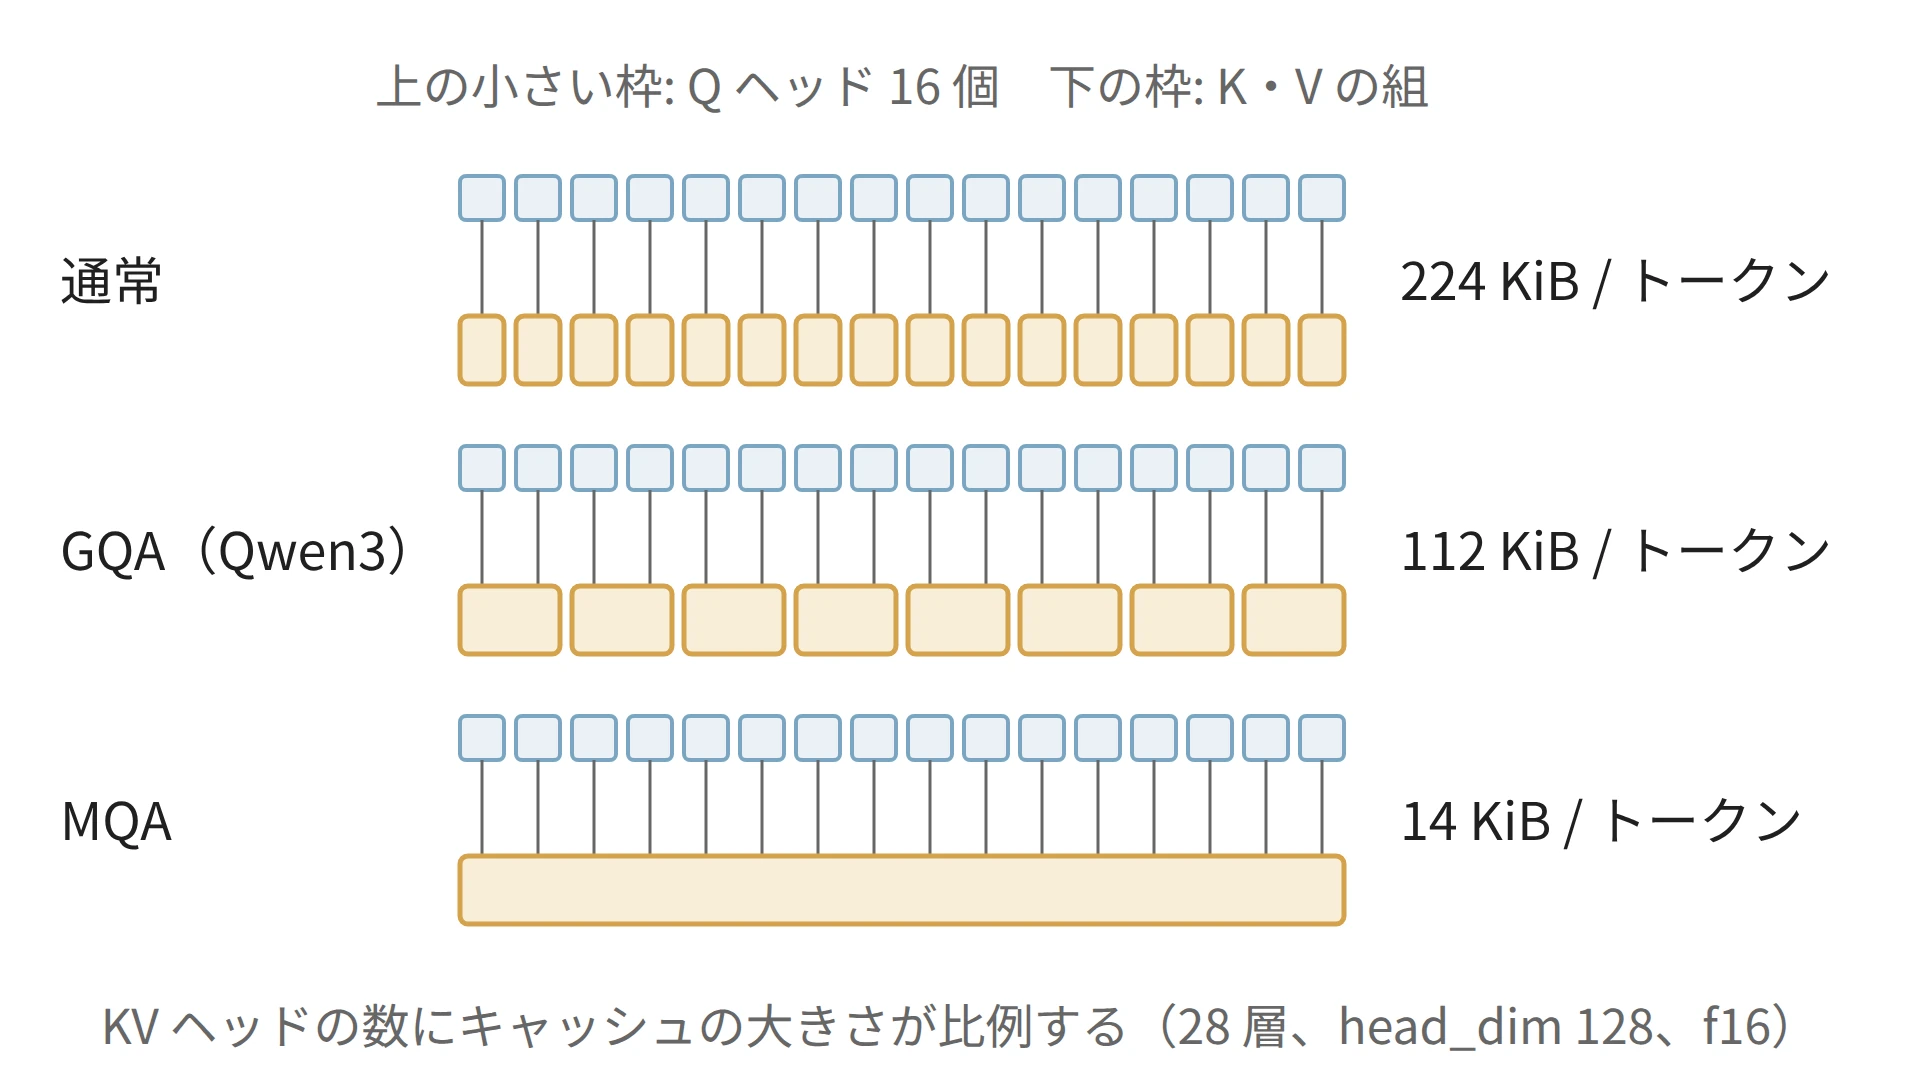
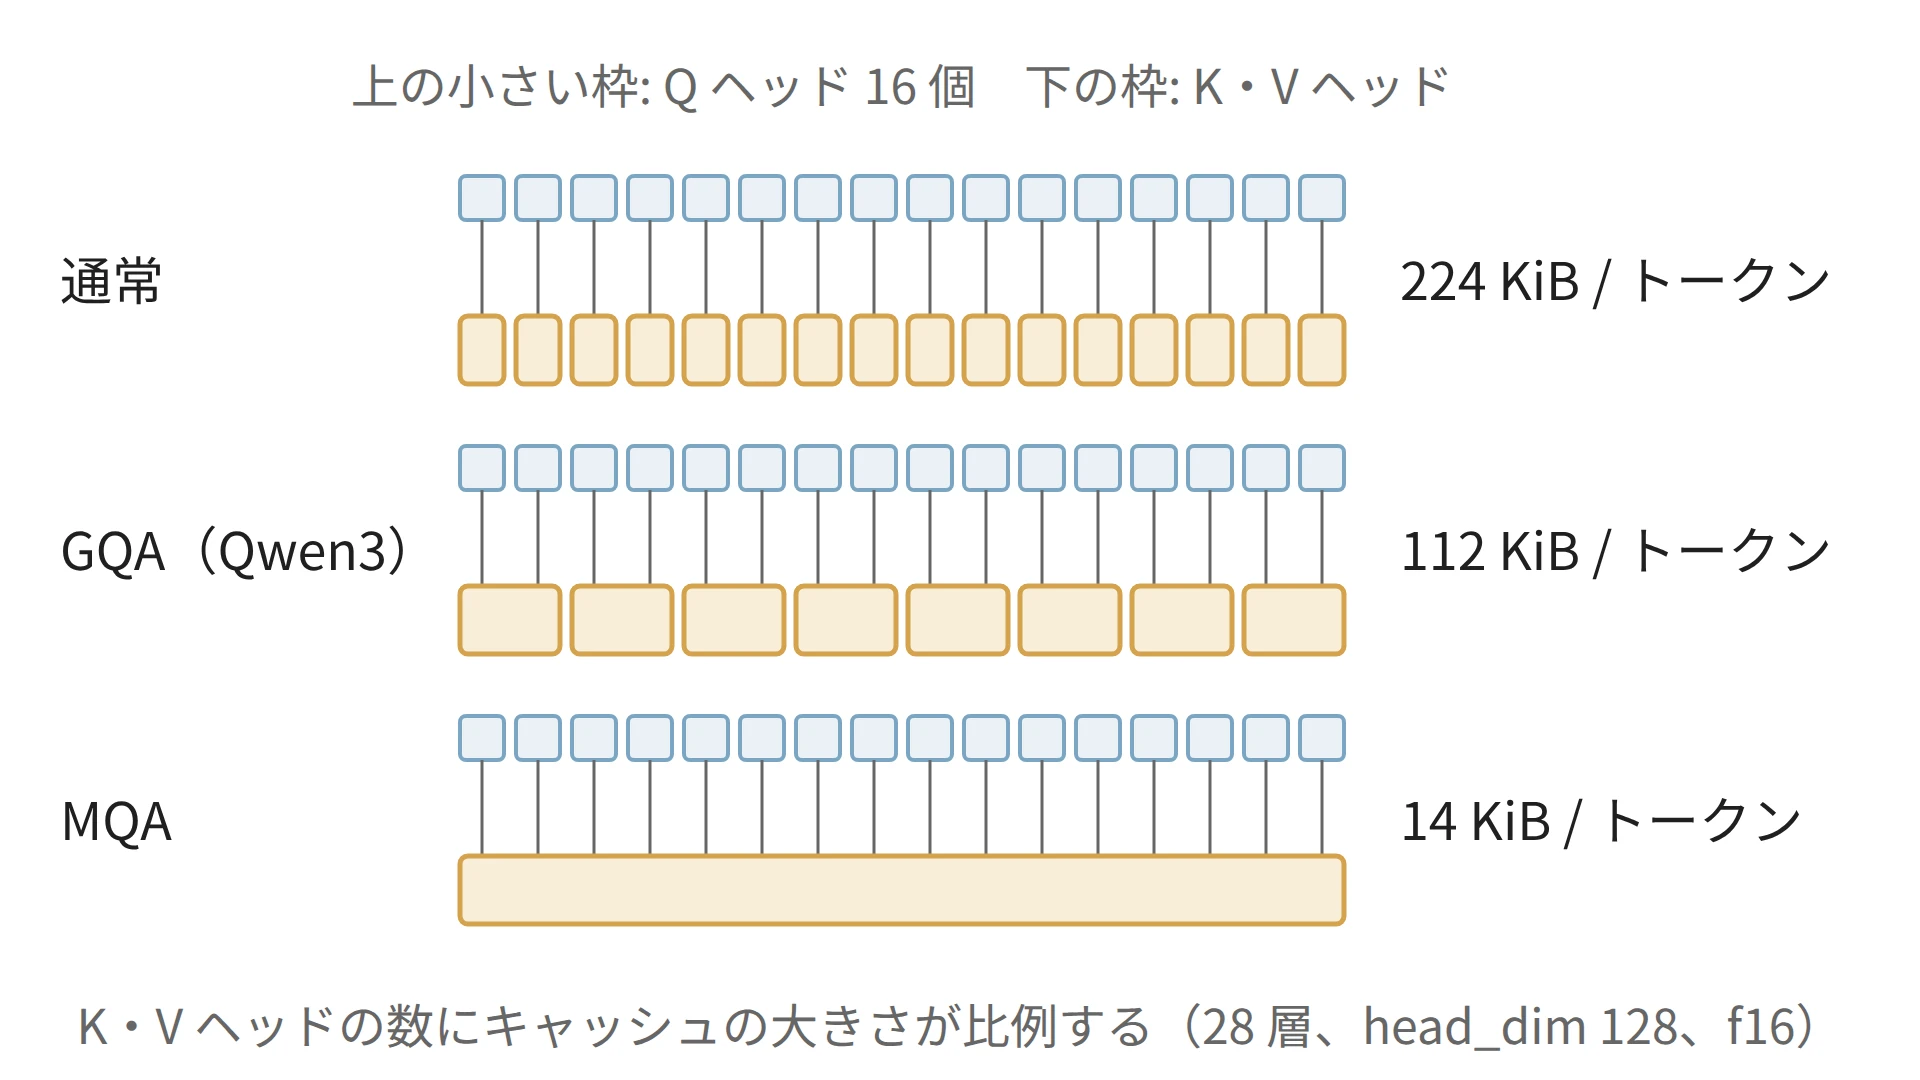
docs(notes): replace the bare 組 in the KV cache note and its figure
Claude-Session: https://claude.ai/code/session_01YUxqeZKPbCLCF82LgM8vBK

Changed region(s): [[0.0312, 0.9167, 0.9375, 0.9778], [0.1875, 0.0611, 0.75, 0.1222]]

diff --git a/content/notes/generative-ai/kv-cache/figures.py b/content/notes/generative-ai/kv-cache/figures.py
@@ -3,7 +3,7 @@
 - kv-cache_concept.webp        : 前から埋まる KV キャッシュの枠と、新しいトークンが全部を読む様子（手書きの SVG）
 - kv-cache_qkv.webp            : 今のトークンの Q と過去の K から比率を求め、その比率で V を混ぜる（手書きの SVG）
 - kv-cache_steps.webp          : キャッシュ無し・有りで、各ステップに K・V を計算するトークン（手書きの SVG）
-- kv-cache_gqa.webp            : 通常・GQA・MQA の Q ヘッドと K・V の組の対応（手書きの SVG）
+- kv-cache_gqa.webp            : 通常・GQA・MQA の Q ヘッドと K・V ヘッドの対応（手書きの SVG）
 - kv-cache_memory.webp         : num_ctx と読み込んだモデルの size（matplotlib）
 - kv-cache_prefill.webp        : 入力の長さと、プロンプトの処理の時間・生成の速さ（matplotlib）
 - kv-cache_read_per_token.webp : 生成の 1 トークンごとに読む量と実測の速さ（手書きの SVG）
@@ -235,9 +235,9 @@ def steps_figure():
 
 
 def gqa_figure():
-    """16 個の Q ヘッドが K・V の組をいくつ共有するか。組の数がキャッシュの大きさになる。"""
-    s = Svg(960, 540, "通常の注意機構・GQA・MQA で、Q ヘッドと K・V の組の対応を比べる")
-    s.text(451, 52, "上の小さい枠: Q ヘッド 16 個　下の枠: K・V の組", 24, "middle", "sub")
+    """16 個の Q ヘッドが K・V ヘッドをいくつ共有するか。K・V ヘッドの数がキャッシュの大きさになる。"""
+    s = Svg(960, 540, "通常の注意機構・GQA・MQA で、Q ヘッドと K・V ヘッドの対応を比べる")
+    s.text(451, 52, "上の小さい枠: Q ヘッド 16 個　下の枠: K・V ヘッド", 24, "middle", "sub")
     qw, qg, x0 = 22, 6, 230
     rows = (("通常", 16), ("GQA（Qwen3）", 8), ("MQA", 1))
     for r, (label, kv) in enumerate(rows):
@@ -253,7 +253,7 @@ def gqa_figure():
             xa = x0 + k * group * (qw + qg)
             s.rect(xa, y + 70, group * (qw + qg) - qg, 34, OCHRE_PALE, OCHRE, 2.5, 4)
         s.text(700, y + 62, f"{per_token // 1024} KiB / トークン", 26, "start")
-    s.text(480, 522, "KV ヘッドの数にキャッシュの大きさが比例する（28 層、head_dim 128、f16）",
+    s.text(480, 522, "K・V ヘッドの数にキャッシュの大きさが比例する（28 層、head_dim 128、f16）",
            24, "middle", "sub")
     s.save("kv-cache_gqa.webp")
 
